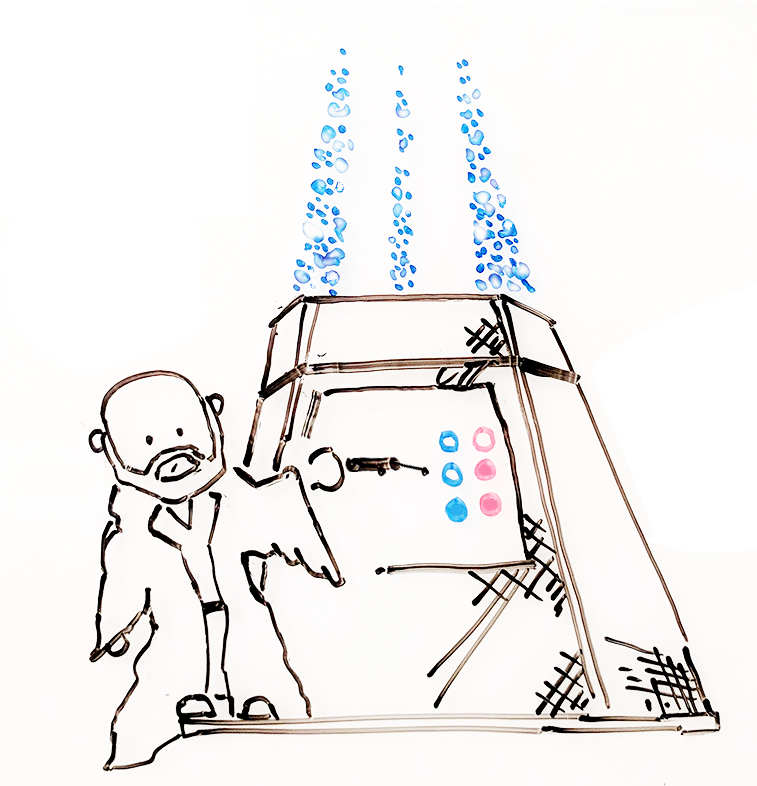
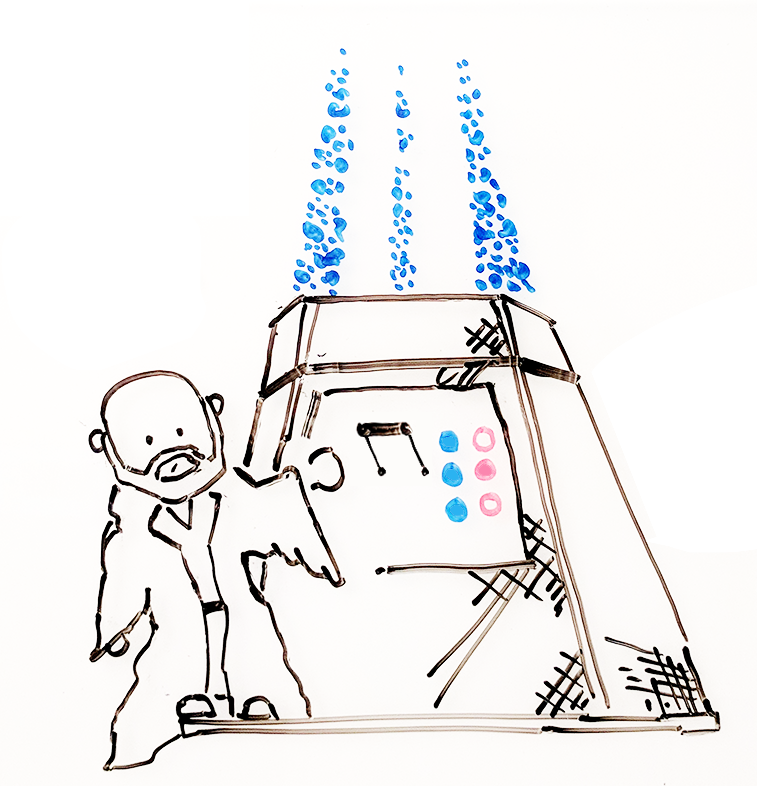
fix screenshot tests (#7)
- update e2e golden screenshots with a 1280 x 900 png
- set take_golden script to update the 'correct' screenshots and set
back to a broken asset state.
- include frame5.png to be the actual frame 4. set frame4.png to frame1
for maximum diff.
- update unit test to show view state vs component state changes for
detect changes.

diff --git a/src/app/tractor-control/tractor-control.component.spec.ts b/src/app/tractor-control/tractor-control.component.spec.ts
@@ -16,7 +16,7 @@ describe('TractorControlComponent', () => {
     fixture.detectChanges();
   }));
 
-  it('should create', () => {
+  it('should create the component', () => {
     expect(component).toBeTruthy();
   });
 
@@ -26,14 +26,22 @@ describe('TractorControlComponent', () => {
     let frameState = fixture.debugElement.nativeElement
         .querySelector('span.frame-state');
 
-    for (let i = 1; i <= 4; i++) {
-      // Check the existing state then...
-      expect(component.frameState).toEqual(i);
+    for (let i = 1; i < 4; i++) {
+      // Check the existing state then in the view.
       expect(frameState.textContent).toContain(i);
 
-      // ...click the image and update the view.
+      // Click the image and update the view.
       leverImage.click();
+
+      // After clicking the component, the component's frameState property
+      // incremented by 1 but the view is the same.
+      expect(component.frameState).toEqual(i + 1);
+      expect(frameState.textContent).toContain(i);
+
       fixture.detectChanges();
+
+      // After detecting the change, the view has been updated.
+      expect(frameState.textContent).toContain(i + 1);
     }
     // After clicking on the element, the frame state will not increment.
     expect(component.frameState).toEqual(4);

diff --git a/e2e/tractor.e2e-spec.ts b/e2e/tractor.e2e-spec.ts
@@ -4,22 +4,29 @@ import {browser, by, element, ExpectedConditions as EC} from 'protractor';
 import {compareScreenshot} from './screenshot_helper';
 
 const GOLDEN_IMAGES = [1,2,3,4].map((i) => {
-  return path.join(__dirname, `goldens/tractor_control${i}.png`)
+  return path.join(__dirname, `goldens/tractor_control${i}.png`);
 });
 
 describe('Tractor beam control page', () => {
 
   beforeEach(async() => {
     await browser.get('/tractor');
+    let width = 1280;
+    let height = 900;
+    await browser.driver.manage().window().setSize(width, height);
   });
 
   it('display the right images', async() => {
     console.log(GOLDEN_IMAGES)
     for(let golden of GOLDEN_IMAGES) {
-      console.log('Checking golden ', golden)
-      let data = await browser.takeScreenshot()
+      console.log('Checking golden ', golden);
+
+      // Get the screenshot and compare it to the golden.
+      let data = await browser.takeScreenshot();
       let result = await compareScreenshot(data, golden);
       expect(result).toBeTruthy();
+
+      // Increment the image.
       await element(by.css('img.lever')).click();
     }
   });
